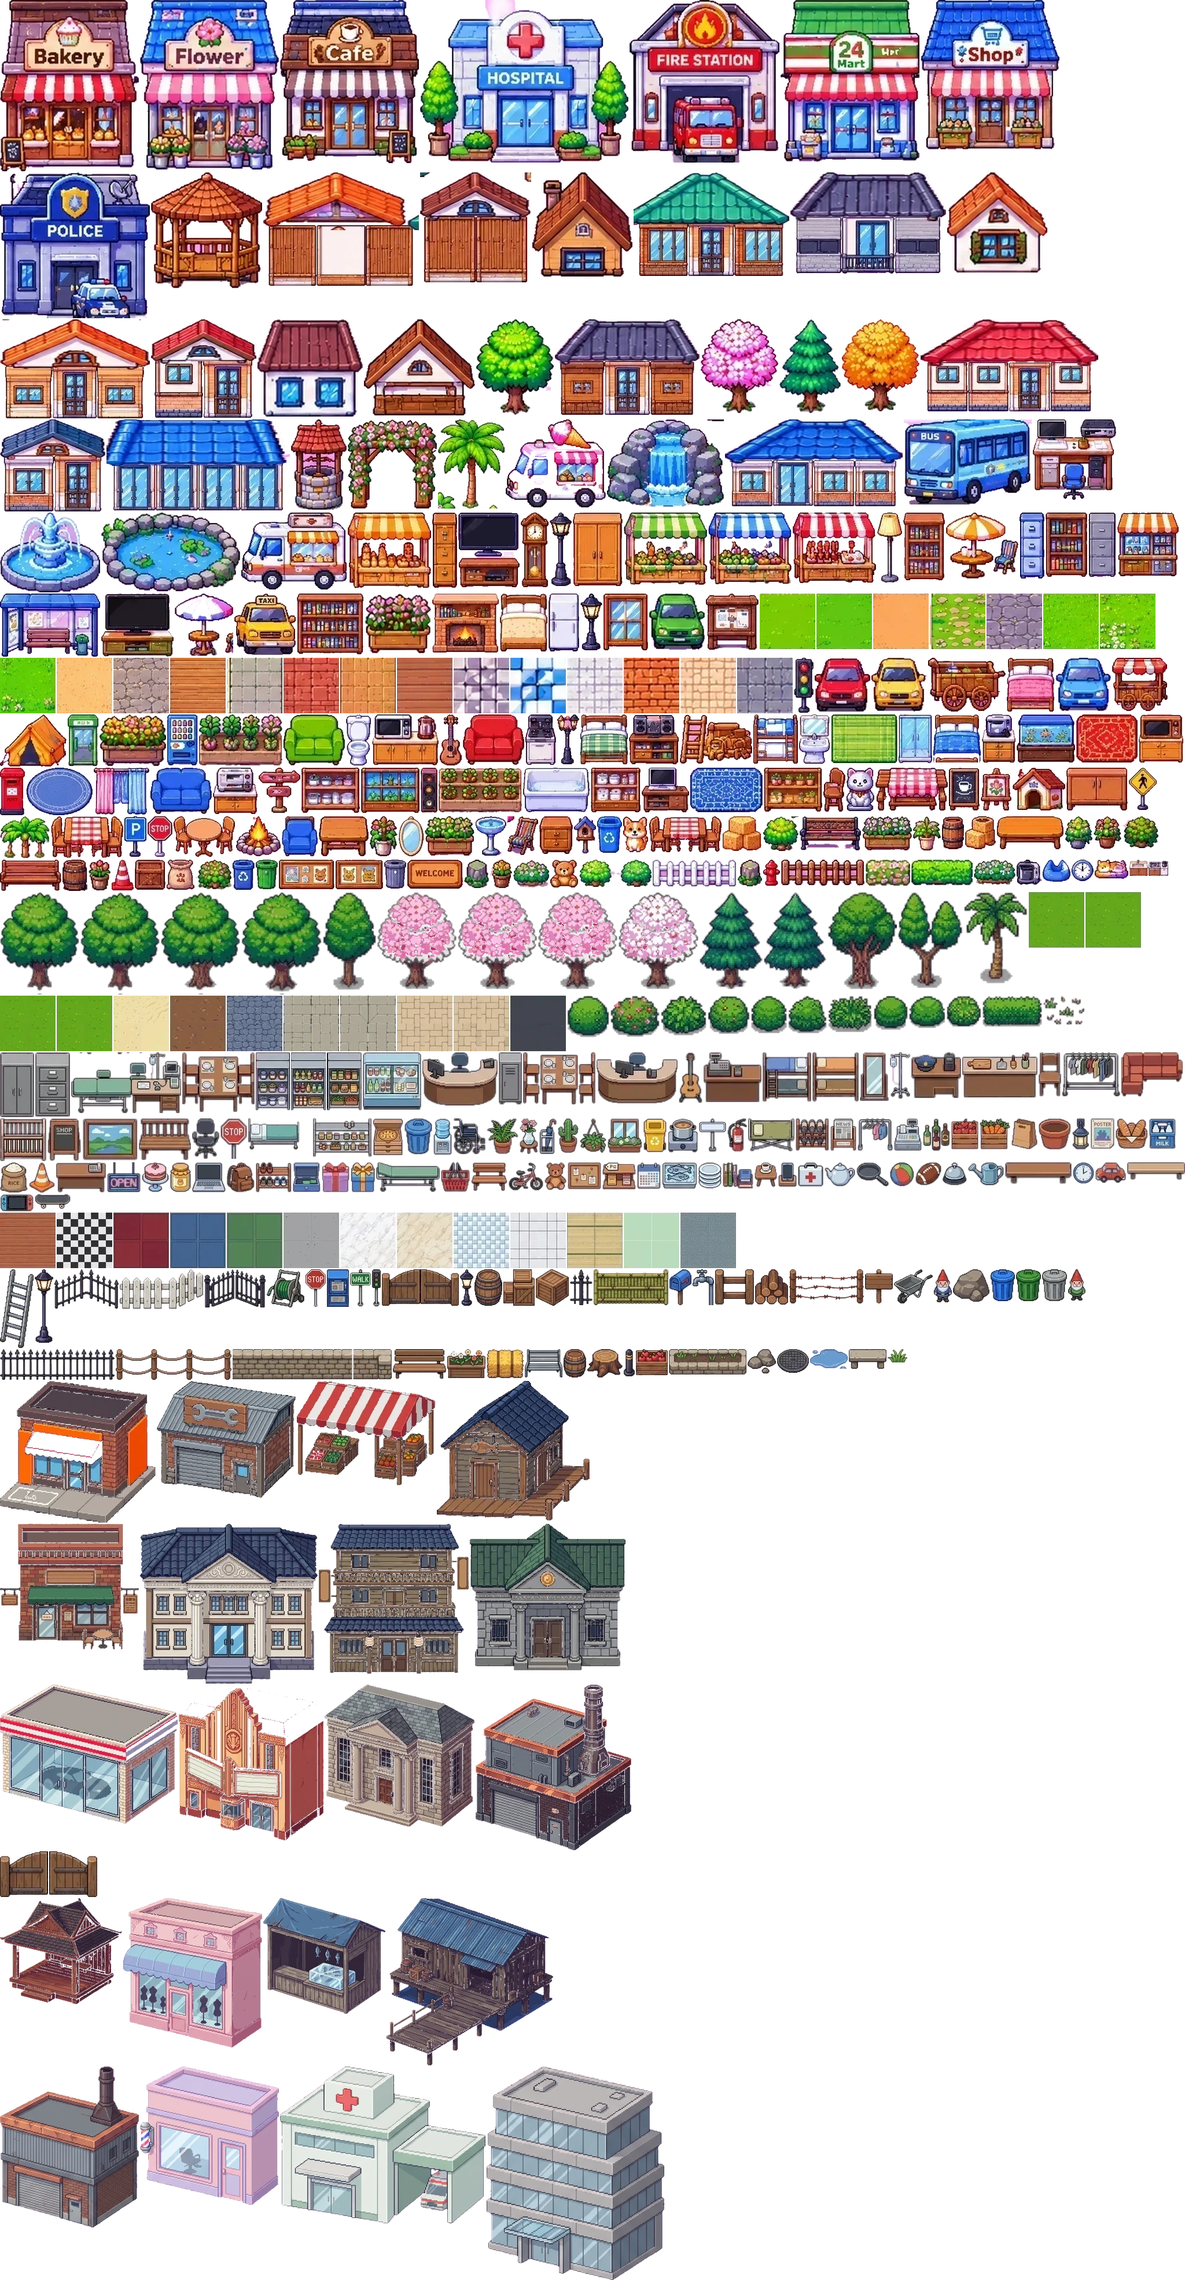
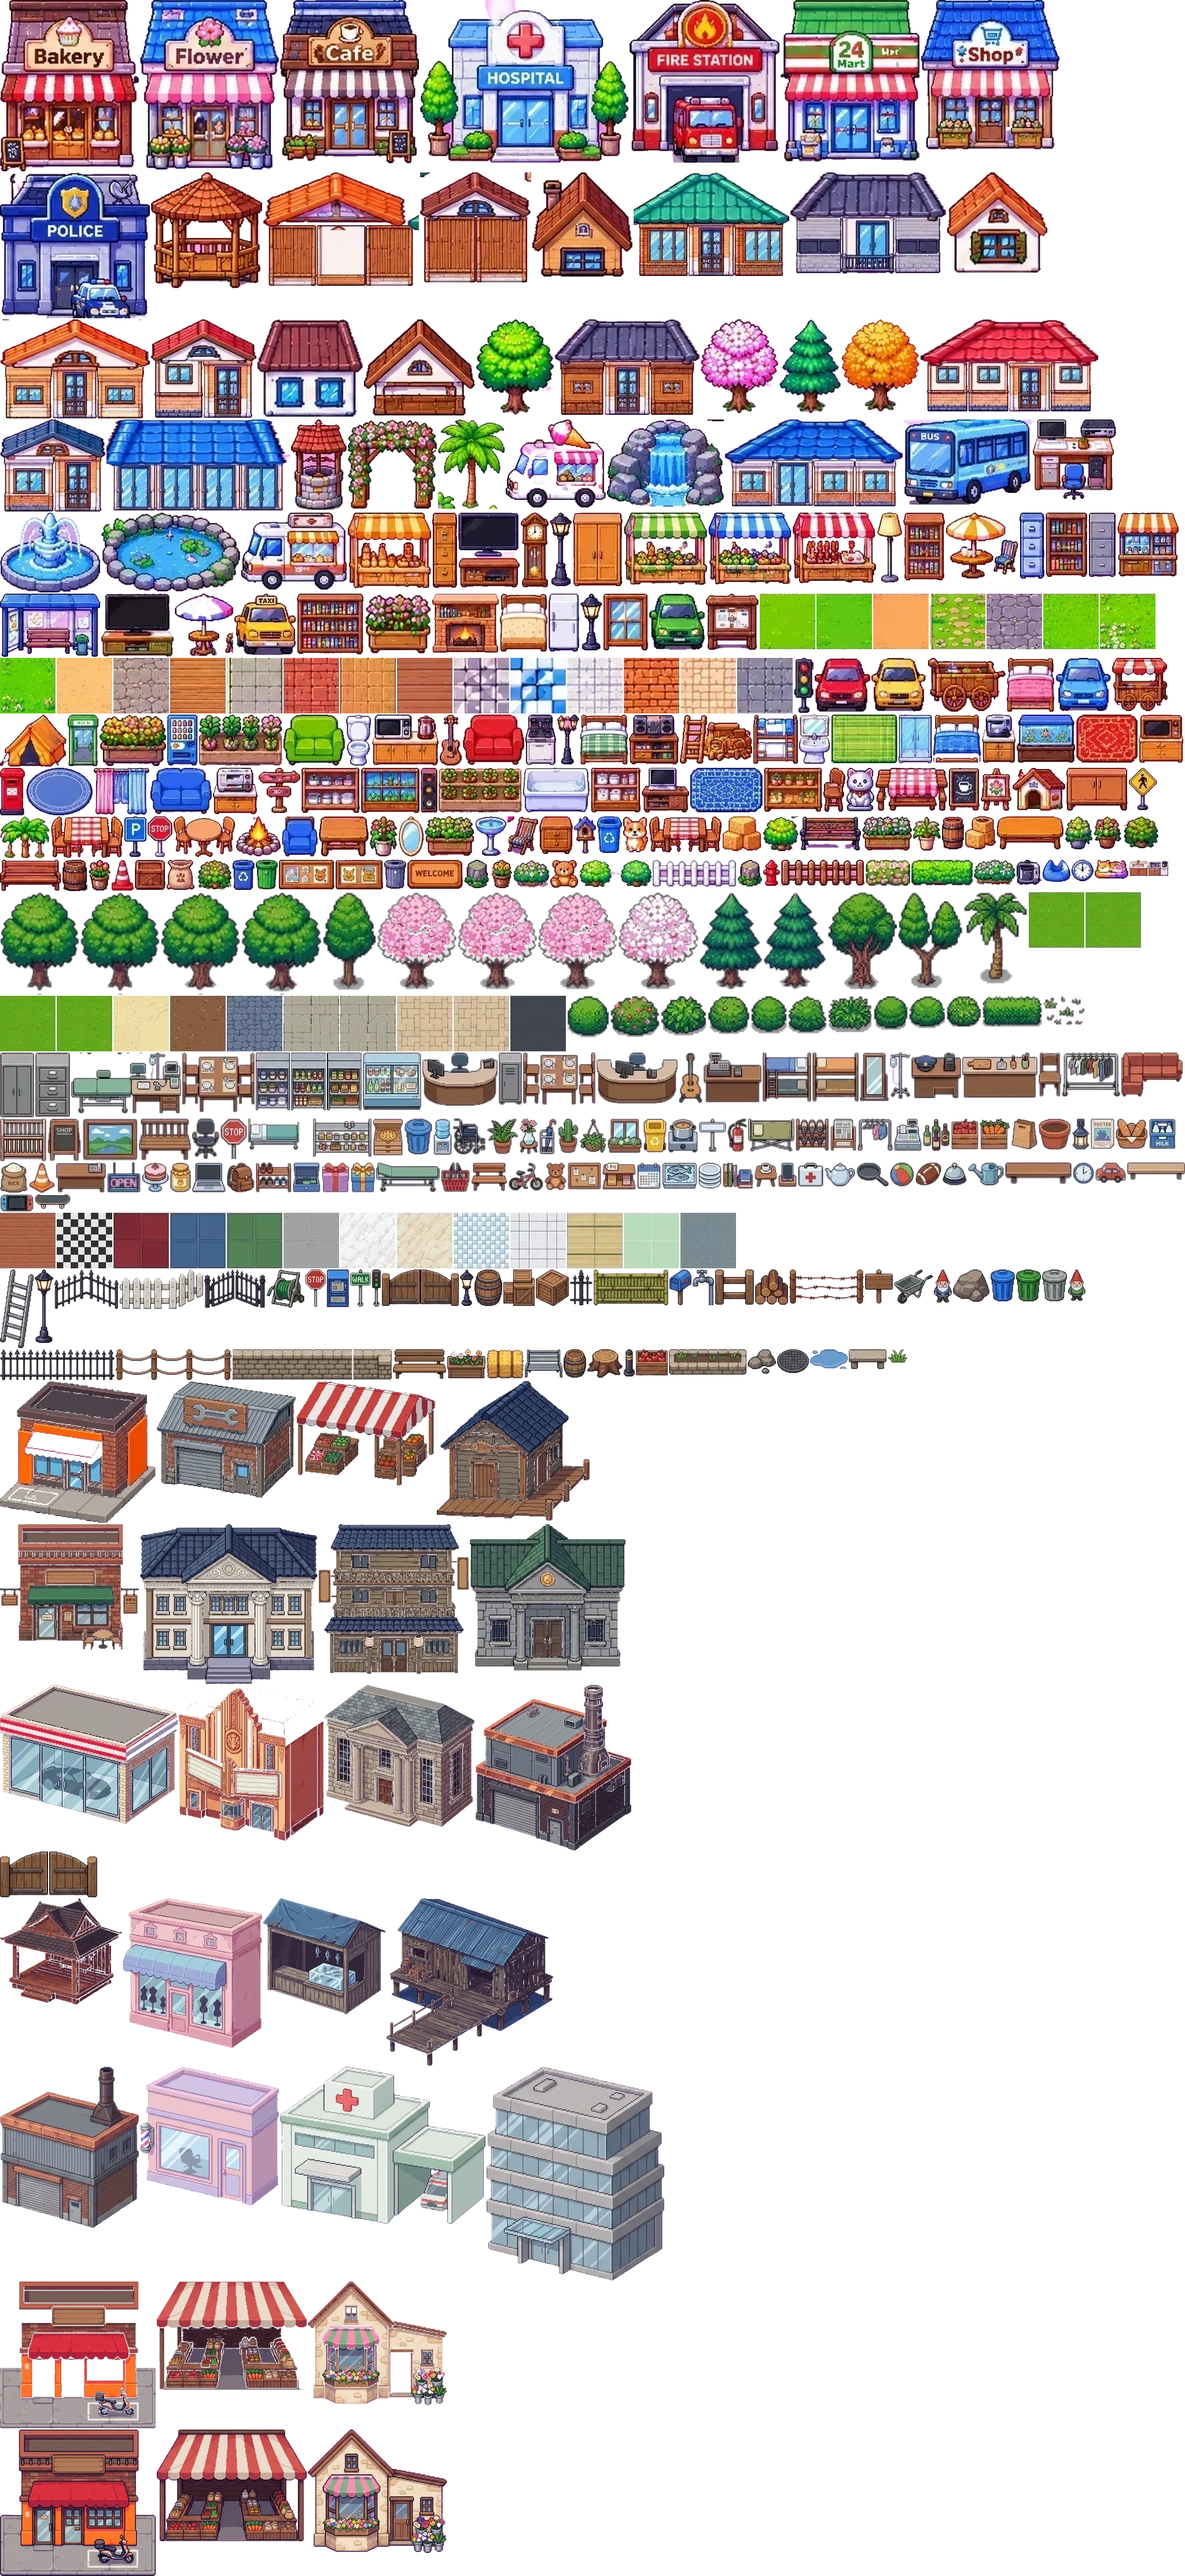
Sheet F: orange scooter shop for the rider hub, produce stall for the central market, flower cottage brings back the flower shop; building cutter only keys bright magenta so dark outlines stay
Claude-Session: https://claude.ai/code/session_011vTRLcvJmqJKhBboYRSi88

diff --git a/server/data.js b/server/data.js
@@ -89,10 +89,10 @@ function pathDown(b, toY) { const cx = Math.floor(b.x + b.w / 2); for (let y = b
   B('school', 'b_school2', 20, 30, { label: 'มหาวิทยาลัย', icon: '🎓', st: 'school' });
   pathDown(B('bank', 'b_bank2', 30, 27, { label: 'ธนาคาร', icon: '🏦', st: 'bank' }), 30);
   // east main road, north side
-  B('market', 'b_mart', 60, 30, { label: 'ตลาดกลาง', icon: '🏪', st: 'market' });
+  B('market', 'b_market2', 60, 30, { label: 'ตลาดกลาง', icon: '🏪', st: 'market' });
   B('hospital', 'b_hospital2', 68, 30, { label: 'โรงพยาบาล', icon: '🏥', st: 'hospital' });
   pathDown(B('office', 'b_tower', 79, 28, { label: 'บริษัท ไทยเทค', icon: '🏢', st: 'office' }), 30);
-  B('flower', 'b_salon', 87, 30, { label: 'ร้านตัดผม', icon: '💈', deco: true, renov: true });
+  B('flower', 'b_flower2', 87, 30, { label: 'ร้านดอกไม้', icon: '💐', deco: true, renov: true });
   // north street
   B('police', 'b_police', 18, 13, { label: 'สถานีตำรวจ', icon: '👮', st: 'police' });
   pathDown(B('fire', 'b_fire', 26, 12, { label: 'สถานีดับเพลิง', icon: '🚒', deco: true }), 13);
@@ -102,7 +102,7 @@ function pathDown(b, toY) { const cx = Math.floor(b.x + b.w / 2); for (let y = b
   B('warehouse', 'b_factory', 5, 45, { label: 'คลังสินค้าราคาส่ง', icon: '📦', st: 'warehouse' });
   pathDown(B('restaurant', 'b_cafe2', 13, 44, { label: 'ร้านอาหาร', icon: '🍜', st: 'restaurant' }), 45);
   B('kitchen', 'b_kitchen', 21, 45, { label: 'ครัวใหญ่ (เชฟ)', icon: '🍳', st: 'kitchen' });
-  B('rider', 'b_rider', 29, 45, { label: 'ศูนย์ไรเดอร์', icon: '🛵', st: 'rider' });
+  B('rider', 'b_rider2', 29, 45, { label: 'ศูนย์ไรเดอร์', icon: '🛵', st: 'rider' });
   B('fishhut', 'b_stilthouse', 31, 55, { label: 'สมาคมประมง', icon: '🎣', deco: true });
   B('fishstall', 'b_fishstall', 20, 55, { label: 'ร้านขายปลา', icon: '🐟', deco: true });      // the club's fish counter         // the fishing club's hut by the lake
   B('fruitstall', 'b_market', 72, 39, { label: '', icon: '🍎', deco: true });                // a fruit stall in the east park

diff --git a/tools/add_buildings.py b/tools/add_buildings.py
@@ -16,14 +16,15 @@ ITEMS = {'b_rider': ('a', 0, 0, 5.6), 'b_toolshop': ('a', 1, 0, 5), 'b_market': 
          'b_cafe2': ('b', 0, 0, 5), 'b_school2': ('b', 1, 0, 6.4), 'b_inn2': ('b', 0, 1, 5.4), 'b_bank2': ('b', 1, 1, 5.6),
          'b_showroom': ('c', 0, 0, 6.4), 'b_cinema': ('c', 1, 0, 5.2), 'b_library': ('c', 0, 1, 5.4), 'b_factory': ('c', 1, 1, 5.6),
          'b_pavilion': ('d', 0, 0, 4.4), 'b_boutique': ('d', 1, 0, 5), 'b_fishstall': ('d', 0, 1, 4.4), 'b_stilthouse': ('d', 1, 1, 6),
-         'b_kitchen': ('e', 0, 0, 5), 'b_salon': ('e', 1, 0, 5), 'b_hospital2': ('e', 0, 1, 7.4), 'b_tower': ('e', 1, 1, 6.4)}
+         'b_kitchen': ('e', 0, 0, 5), 'b_salon': ('e', 1, 0, 5), 'b_hospital2': ('e', 0, 1, 7.4), 'b_tower': ('e', 1, 1, 6.4),
+         'b_rider2': ('f', 0, 0, 5.6), 'b_market2': ('f', 1, 0, 5.4), 'b_flower2': ('f', 0, 1, 5)}
 SHEET = lambda k: os.path.join(ROOT, 'tools', 'sheets', f'pixel_buildings_{k}.jpg')
 
 def cut(sheet, col, row):
     c = sheet.width // 2
     a = np.asarray(sheet.crop((col * c, row * c, (col + 1) * c, (row + 1) * c)).convert('RGB')).astype(int)
     r, g, b = a[..., 0], a[..., 1], a[..., 2]
-    bg = (g < np.minimum(r, b) * 0.6) & (np.abs(r - b) < 90)          # magenta and its fringe
+    bg = (g < np.minimum(r, b) * 0.6) & (np.abs(r - b) < 90) & (np.minimum(r, b) > 110)   # bright magenta and its fringe (not dark purple outlines)
     rgba = np.dstack([a, np.where(bg, 0, 255)]).astype(np.uint8)
     from scipy import ndimage
     lab, n = ndimage.label(~bg)
